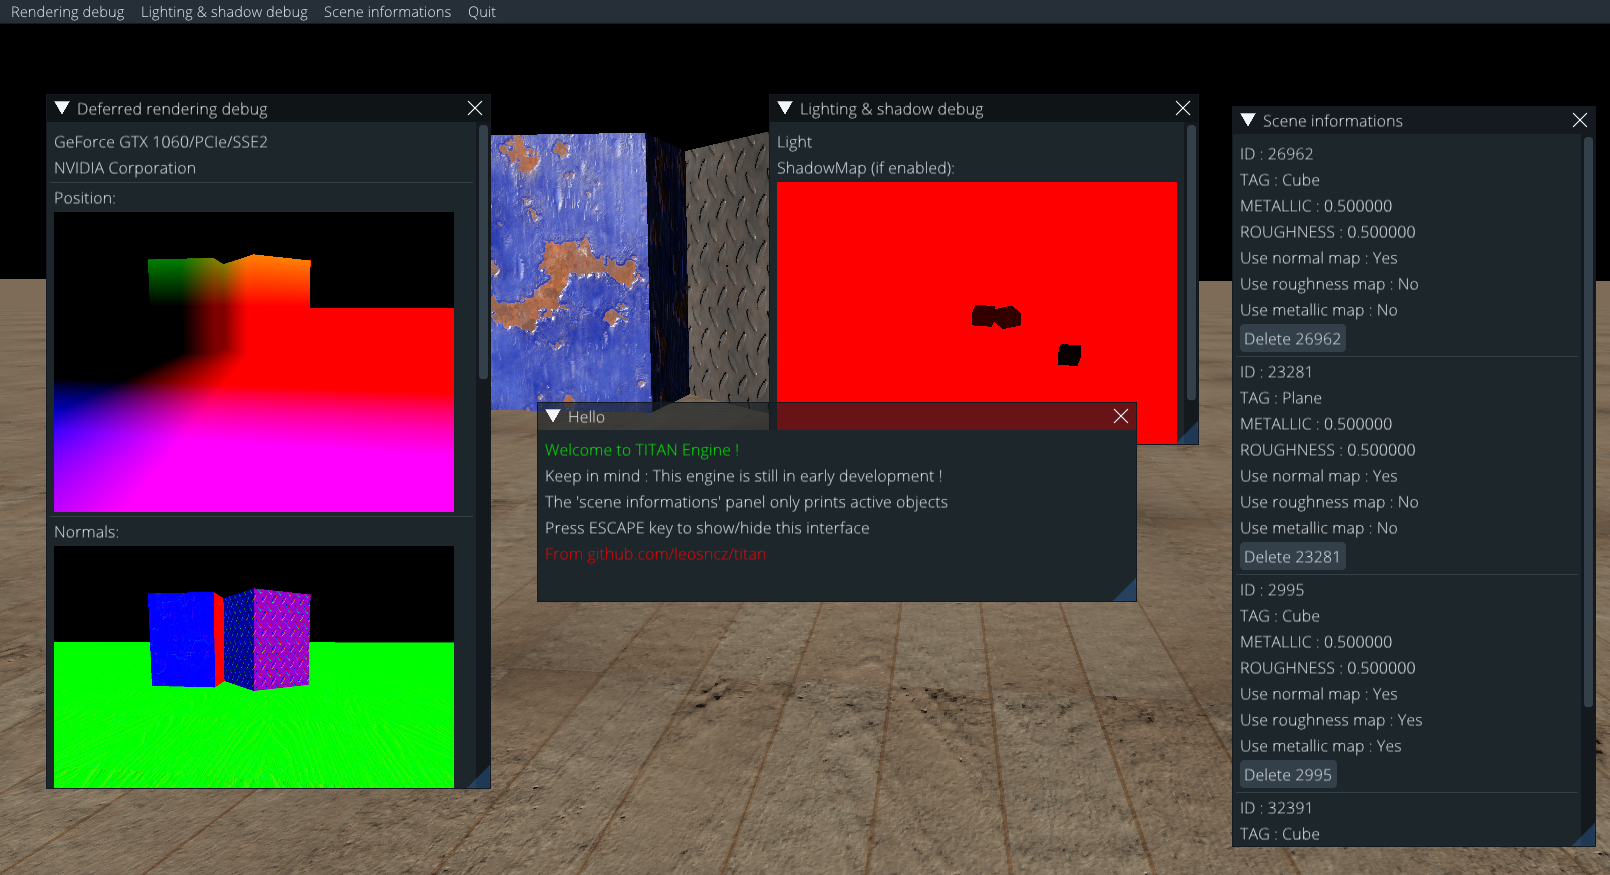
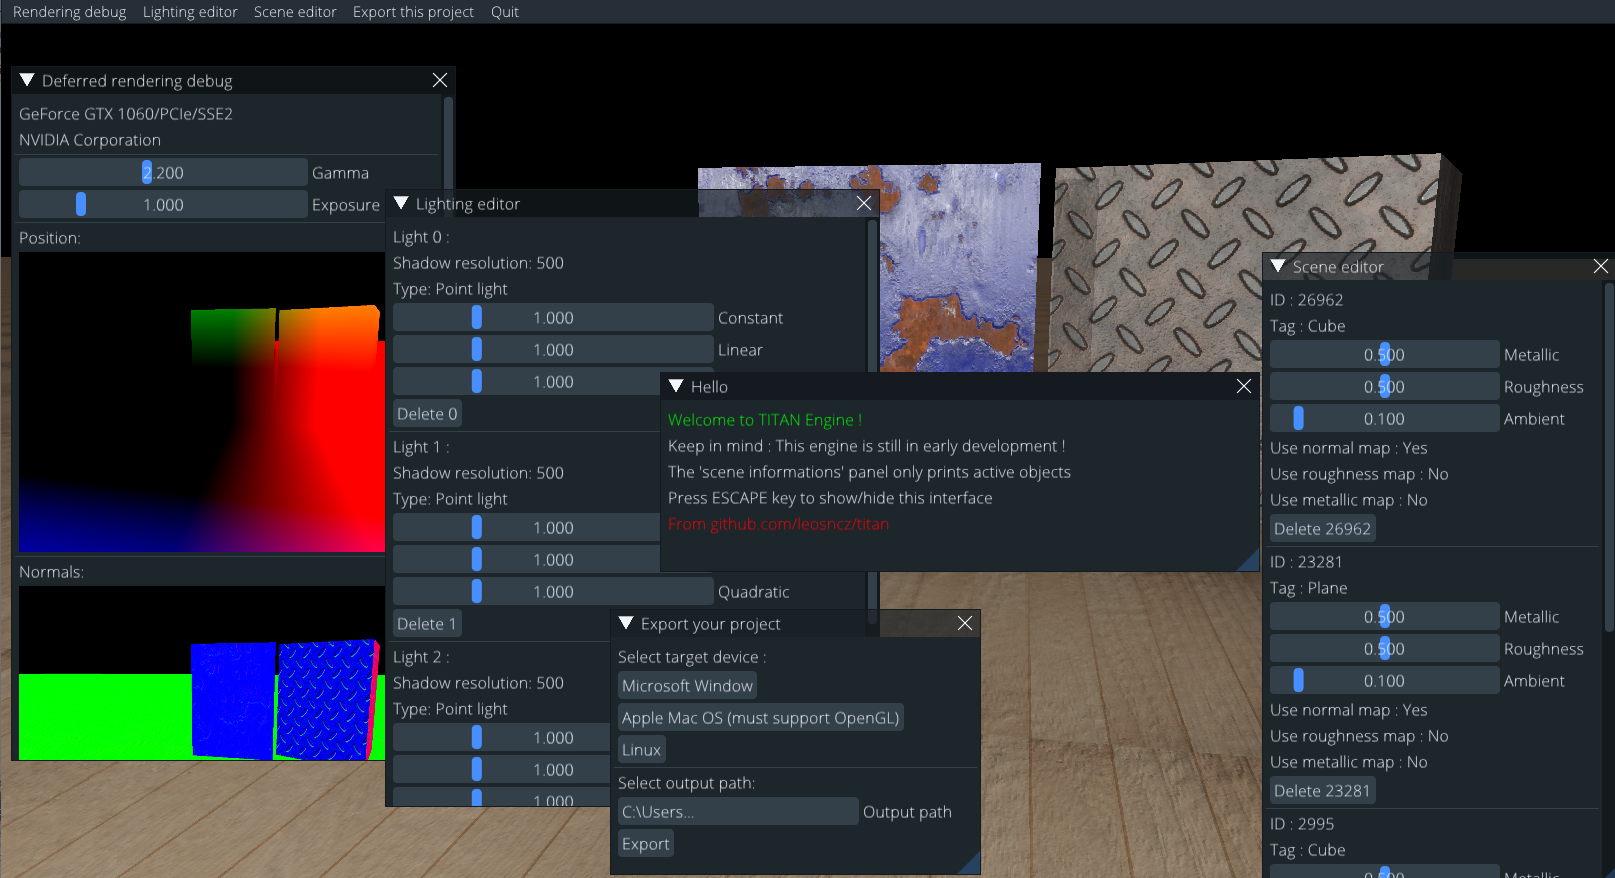
lot of new settings in the gui ..

diff --git a/renderObject/renderObject.h b/renderObject/renderObject.h
@@ -21,6 +21,7 @@ public:
         id = rand(); 
         std::cout << "--> Creating new renderObject ID=" << id << std::endl;
         tag = "Custom Object";
+        mustBeDeleted = false;
     }
     string getTag() { return tag; }
     shader* getShader() { return &m_gShader; }
@@ -198,134 +199,6 @@ public:
         glDrawArrays(GL_TRIANGLES, 0, m_nbOfPointToDraw);
     }
 
-    //Should NOT be called unless for forward rendering
-    void render(glm::mat4* projection, glm::mat4* view, glm::mat4* model, glm::vec3 viewPos, vector<light*> sceneLights = {}, int numberOfLight = 0, GLuint gPosition = 0,GLuint gAlbedoSpec=0,GLuint gNormals=0)
-    {
-        //Update actual model matrix
-        glm::mat4 customModelMatrix = *model * modelMatrix;
-        
-        glUseProgram(m_shader.getShaderID());
-
-        glBindVertexArray(vao);
-
-            //Send object relative data to display the object
-            glUniformMatrix4fv(modelID, 1, GL_FALSE, glm::value_ptr(customModelMatrix));
-            glUniformMatrix4fv(viewID, 1, GL_FALSE, glm::value_ptr(*view));
-            glUniformMatrix4fv(projectionID, 1, GL_FALSE, glm::value_ptr(*projection));
-            glUniform3f(viewPosID, viewPos.x, viewPos.y, viewPos.z);
-
-            glUniform1i(howManyTexID, m_nbOfTextureToDraw);
-           
-
-            int dirLightID = 0;
-            int ptLightID = 0;
-            int textureCount = 0; // 0 is hdr texture
-            for (int i = 0; i < sceneLights.size(); i++) // For each light
-            {
-                if (glIsTexture(sceneLights[i]->textureDepthMap) && sceneLights[i]->computeShadows && sceneLights[i]->type == POINT_LIGHT)
-                {
-                    if (ptLightID == 0)
-                    {
-                        glUniform1i(glGetUniformLocation(m_shader.getShaderID(), "textureDepthCubemap"), 0);
-                        glActiveTexture(GL_TEXTURE0);
-                        glBindTexture(GL_TEXTURE_CUBE_MAP, sceneLights[i]->textureDepthMap);
-                        ptLightID++;
-                    }
-                    else
-                    {
-                        string name = "textureDepthCubemap";
-                        name.append(to_string(ptLightID));
-                        glUniform1i(glGetUniformLocation(m_shader.getShaderID(), name.c_str()), textureCount);
-                        glActiveTexture(GL_TEXTURE0 + textureCount);
-                        glBindTexture(GL_TEXTURE_CUBE_MAP, sceneLights[i]->textureDepthMap);
-                        ptLightID++;
-                    }
-                    textureCount++;
-                }
-                else if (glIsTexture(sceneLights[i]->textureDepthMap) && sceneLights[i]->computeShadows && sceneLights[i]->type == DIRECTIONNAL_LIGHT)
-                {
-                    string name = "lightSpaceMatrix";
-                    if (dirLightID != 0) {
-                        name.append(to_string(dirLightID));
-                    }
-                    glm::mat4 lightProjection = glm::ortho(-10.0f, 10.0f, -10.0f, 10.0f, 1.0f, 25.0f);
-                    glm::mat4 lightView = glm::lookAt(sceneLights[i]->lightPosition, glm::vec3(0, 0, 0), glm::vec3(0, 1, 0));
-                    glm::mat4 lightSpaceMatrix = lightProjection * lightView;
-                    glUniformMatrix4fv(glGetUniformLocation(m_shader.getShaderID(),name.c_str()), 1, GL_FALSE, glm::value_ptr(lightSpaceMatrix));
-
-                    if (dirLightID == 0)
-                    {
-                        glUniform1i(glGetUniformLocation(m_shader.getShaderID(), "textureDepthMap"), 0);
-                        glActiveTexture(GL_TEXTURE0);
-                        glBindTexture(GL_TEXTURE_2D, sceneLights[i]->textureDepthMap);
-                        dirLightID++;
-                    }
-                    else
-                    {
-                        string name = "textureDepthMap";
-                        name.append(to_string(dirLightID));
-                        glUniform1i(glGetUniformLocation(m_shader.getShaderID(), name.c_str()), textureCount);
-                        glActiveTexture(GL_TEXTURE0 + textureCount);
-                        glBindTexture(GL_TEXTURE_2D, sceneLights[i]->textureDepthMap);
-                        dirLightID++;
-                    }
-                    textureCount++;
-                }
-            }
-
-            if (glIsTexture(texture1))
-            {
-                glUniform1i(texture1ID, textureCount);
-                glActiveTexture(GL_TEXTURE0 + textureCount);
-                glBindTexture(GL_TEXTURE_2D, texture1);
-                textureCount++;
-            }
-            if (glIsTexture(texture2))
-            {
-                glUniform1i(texture1ID, textureCount);
-                glActiveTexture(GL_TEXTURE0 + textureCount);
-                glBindTexture(GL_TEXTURE_2D, texture2);
-                textureCount++;
-            }
-            if (glIsTexture(texture3))
-            {
-                glUniform1i(texture1ID, textureCount);
-                glActiveTexture(GL_TEXTURE0 + textureCount);
-                glBindTexture(GL_TEXTURE_2D, texture3);
-                textureCount++;
-            }
-            if (hasNormalMap)
-            {
-                glUniform1i(normalTextureID, textureCount);
-                glActiveTexture(GL_TEXTURE0 + textureCount);
-                glBindTexture(GL_TEXTURE_2D, normalTexture);
-                glUniform1i(useNormalMapID, 1);
-                textureCount++;
-            }
-            else { glUniform1i(useNormalMapID, 0); }
-            if (hasMetallicMap)
-            {
-                glUniform1i(metallicTextureID, textureCount);
-                glActiveTexture(GL_TEXTURE0 + textureCount);
-                glBindTexture(GL_TEXTURE_2D, metallicTexture);
-                glUniform1i(useMetallicMapID, 1);
-                textureCount++;
-            }
-            else { glUniform1i(useMetallicMapID, 0); }
-            if (hasRoughnessMap)
-            {
-                glUniform1i(roughnessTextureID, textureCount);
-                glActiveTexture(GL_TEXTURE0 + textureCount);
-                glBindTexture(GL_TEXTURE_2D, roughnessTexture);
-                glUniform1i(useRoughnessMapID, 1);
-                textureCount++;
-            }
-            else { glUniform1i(useRoughnessMapID, 0); }
-
-            m_shader.registerLightToRender(sceneLights,numberOfLight); // MUST BE CALLED if you want lighting to work
-
-            glDrawArrays(GL_TRIANGLES,0,m_nbOfPointToDraw);
-    }
     void renderGBuffer(glm::mat4* projection, glm::mat4* view, glm::mat4* model, glm::vec3 viewPos, vector<light*> sceneLights = {}, int numberOfLight = 0)
     {
         //Update actual model matrix
@@ -499,6 +372,7 @@ public:
     }
     void setNormalMap(const char* path)
     {
+        removeNormalMap();
         setTexture(&normalTexture, path);
         hasNormalMap = true;
     }
@@ -509,6 +383,7 @@ public:
     }
     void setMetallicMap(const char* path)
     {
+        removeMetallicMap();
         setTexture(&metallicTexture, path);
         hasMetallicMap = true;
     }
@@ -519,6 +394,7 @@ public:
     }
     void setRoughnessMap(const char* path)
     {
+        removeRoughnessMap();
         setTexture(&roughnessTexture, path);
         hasRoughnessMap = true;
     }
@@ -526,7 +402,8 @@ public:
     bool doesMeshHasNormalMap() { return hasNormalMap; }
     bool doesMeshHasRoughnessMap() { return hasRoughnessMap; }
     bool doesMeshHasMetallicMap() { return hasMetallicMap; }
-
+    void setDeleteStatus(bool status) { mustBeDeleted = status; }
+    bool getDeleteStatus() { return mustBeDeleted; }
     int getID(){return id;}
 
 protected:
@@ -535,6 +412,7 @@ protected:
     string tag;
 
     bool isInitialized;
+    bool mustBeDeleted; // Indicates if this renderObject has been dynamically created on the heap, if yes the scene will delete it
 
     glm::mat4 modelMatrix;
 

diff --git a/gui/guiEngine.h b/gui/guiEngine.h
@@ -9,6 +9,7 @@ public:
 		m_showRenderingDebug = false;
 		m_showSceneEditor = false;
 		m_showHelloMessage = true;
+		m_showExportMenu = false;
 	}
 
 	void update(scene* scene_)
@@ -16,6 +17,16 @@ public:
 		if (glfwGetKey(m_display->getGLFWWindow(), GLFW_KEY_ESCAPE) == GLFW_PRESS)
 		{
 			isVisible = !isVisible;
+			if (isVisible == true)
+			{
+				camera* cam = scene_->getCamera();
+				cam->pauseControls();
+			}
+			else
+			{
+				camera* cam = scene_->getCamera();
+				cam->resumeControls();
+			}
 		}
 		if (isVisible)
 		{
@@ -30,7 +41,7 @@ public:
 			}
 			if (m_showRenderingDebug)
 			{
-				showRenderingDebug(scene_->getGPosition(), scene_->getGNormals(), scene_->getGAlbedo(), scene_->getGRoughness(), scene_->getGMetallic(),scene_->getGAmbient());
+				showRenderingDebug(scene_->getExposure(),scene_->getGamma(),scene_->getGPosition(), scene_->getGNormals(), scene_->getGAlbedo(), scene_->getGRoughness(), scene_->getGMetallic(),scene_->getGAmbient());
 			}
 			if (m_showSceneEditor)
 			{
@@ -39,6 +50,10 @@ public:
 			if (m_showLightingEditor)
 			{
 				showLightingEditor(scene_->getLights());
+			}
+			if (m_showExportMenu)
+			{
+				showExportMenu();
 			}
 
 			if (ImGui::BeginMainMenuBar())
@@ -58,6 +73,11 @@ public:
 					m_showSceneEditor = true;
 					ImGui::EndMenu();
 				}
+				if (ImGui::BeginMenu("Export this project"))
+				{
+					m_showExportMenu = true;
+					ImGui::EndMenu();
+				}
 				if (ImGui::BeginMenu("Quit"))
 				{
 					m_display->setExitStatus(true);
@@ -71,7 +91,7 @@ public:
 		}
 	}
 private:
-	bool m_showRenderingDebug, m_showSceneEditor, m_showLightingEditor, m_showHelloMessage;
+	bool m_showRenderingDebug, m_showSceneEditor, m_showLightingEditor, m_showHelloMessage, m_showExportMenu;
 
 	void showLightingEditor(vector<light*>* lights)
 	{
@@ -132,7 +152,28 @@ private:
 		ImGui::End();
 	}
 
-	void showRenderingDebug(GLuint positionTexture, GLuint normalTexture, GLuint albedoSpecTexture, GLuint roughnessTexture, GLuint metallicTexture, GLuint ambientTexture)
+	void showExportMenu()
+	{
+		ImGui::Begin("Export your project", &m_showExportMenu);
+		ImGui::SetWindowFontScale(1.1);
+
+		ImGui::TextWrapped("Select target device :");
+
+		ImGui::Button("Microsoft Window");
+		ImGui::Button("Apple Mac OS (must support OpenGL)");
+		ImGui::Button("Linux");
+
+		ImGui::Separator();
+
+		char output[] = "C:\\Users\...";
+		ImGui::TextWrapped("Select output path: ");
+		ImGui::InputText("Output path",output,10);
+
+		ImGui::Button("Export");
+		ImGui::End();
+	}
+
+	void showRenderingDebug(float* exposure, float* gamma, GLuint positionTexture, GLuint normalTexture, GLuint albedoSpecTexture, GLuint roughnessTexture, GLuint metallicTexture, GLuint ambientTexture)
 	{
 		ImGui::Begin("Deferred rendering debug", &m_showRenderingDebug);
 		ImGui::SetWindowFontScale(1.1);
@@ -141,6 +182,11 @@ private:
 		char* vendor = (char*)glGetString(GL_VENDOR);
 		ImGui::TextWrapped(renderer);
 		ImGui::TextWrapped(vendor);
+		ImGui::Separator();
+
+		ImGui::SliderFloat("Gamma", gamma, 0.0, 5.0);
+		ImGui::SliderFloat("Exposure", exposure, 0.0, 5.0);
+
 		ImGui::Separator();
 		ImGui::TextWrapped("Position: ");
 		IM_ASSERT(positionTexture);

diff --git a/scene/scene.h b/scene/scene.h
@@ -282,6 +282,9 @@ public:
     vector<light*>* getLights() { return &m_lights; }
     vector<renderObject*>* getObjectHolder() { return &m_objectHolder; }
     mat4* getViewMatrix() { return &view; }
+    camera* getCamera() { return m_actualCamera; }
+    float* getExposure() { return &m_exposure; }
+    float* getGamma() { return &m_gamma; }
 
     ~scene()
     {
@@ -300,6 +303,22 @@ public:
         glDeleteBuffers(1, &vbo_colors);
         glDeleteBuffers(1, &vbo_texCoords);
         glDeleteVertexArrays(1, &vao);
+
+        for (int i = 0; i < m_lights.size(); i++)
+        {
+            if (m_lights[i]->mustBeDeleted)
+            {
+                delete m_lights[i];
+            }
+        }
+        for (int i = 0; i < m_objectHolder.size(); i++)
+        {
+            if (m_objectHolder[i]->getDeleteStatus())
+            {
+                delete m_objectHolder[i];
+            }
+        }
+
         std::cout << "--> Destroying scene ID=" << id << std::endl;
     }
 

diff --git a/light/light.h b/light/light.h
@@ -20,6 +20,7 @@ class light
           constant = constant_;
           linear = linear_;
           quadratic = quadratic_;
+          mustBeDeleted = false;
       }
 
      vec3 lightPosition;
@@ -36,6 +37,8 @@ class light
      int shadowResolution;
 
      GLuint textureDepthMap, depthMapFBO;
+
+     bool mustBeDeleted; // Indicates if this light has been dynamically created on the heap, if yes the scene will delete it
 
      ~light()
      {
